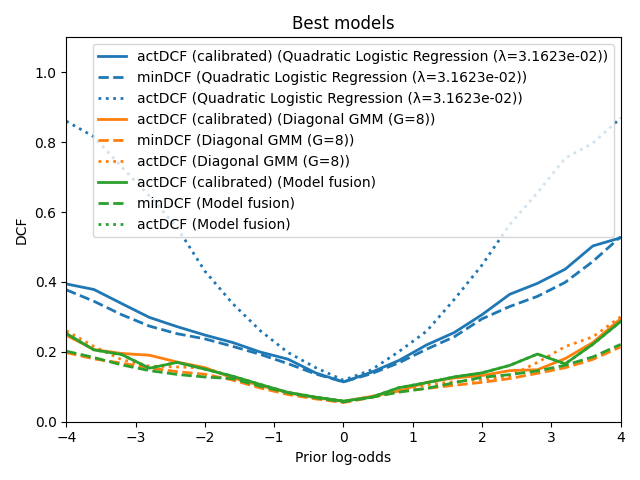
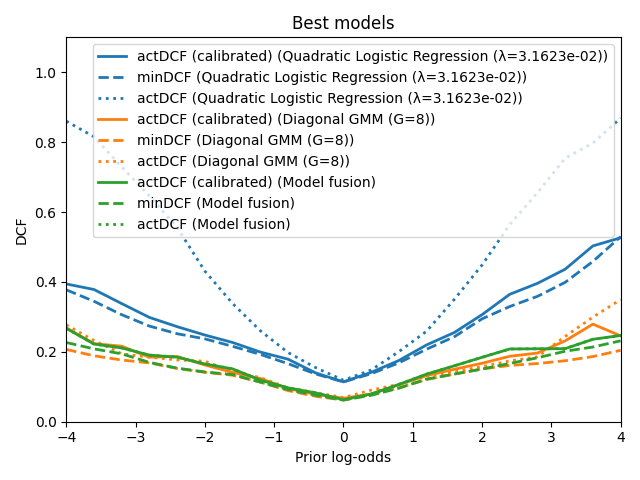
lab 11 part continued

Changed region(s): [[0.0938, 0.625, 0.9688, 0.8438]]

diff --git a/9_project.py b/9_project.py
@@ -1,13 +1,14 @@
 import numpy as np
-from libs.logistic_regression import LogisticRegression
+from libs.logistic_regression import LogisticRegression, quadratic_expansion, empirical_prior_logodds
 from libs.utils import load_data, split_2to1, row, col, print_table
 from libs.model_calibration import Kfold_split
-from libs.model_evaluation import bayes_pred_llr, confusion_matrix, DCF, DCF_min, plot_bayer_error
+from libs.model_evaluation import bayes_pred_llr, confusion_matrix, DCF, DCF_min
+from libs.model_evaluation import plot_bayer_error, prepare_bayes_plot_data
 
-best_scores_filenames = [
-    ('Quadratic Logistic Regression (λ=3.1623e-02)', 'results/logistic_regression/quadratic_logreg(λ=3.1623e-02)_llrs.npy'),
-    ('Diagonal GMM (G=8)', 'results/gmm/GMM(G=8)_diag_llrs.npy')
-]
+best_models_filenames = [
+    ('Quadratic Logistic Regression (λ=3.1623e-02)', 'logistic_regression/quadratic_logreg(λ=3.1623e-02)'),
+    ('Diagonal GMM (G=8)', 'gmm/GMM(G=8)_diag')
+] # to be transformed into a dict
 
 pi_true = 0.1
 K = 5
@@ -18,9 +19,10 @@ def main():
     model_scores_map = {}
     scores_all = []
     table_rows = []
+    models_cal = []
     # score calibration
-    for title, score_name in best_scores_filenames:
-        scores = row(np.load(score_name))
+    for title, model_name in best_models_filenames:
+        scores = row(np.load(f'results/{model_name}_llrs.npy'))
         scores_all.append(scores)
         model_cal = LogisticRegression(prior=pi_true)
         Kfold_scores, Kfold_labels = list(), list()
@@ -39,6 +41,7 @@ def main():
         minDCF = DCF_min(Kfold_scores, Kfold_labels, pi_true)
         table_rows.append((title, actDCF, minDCF))
         model_scores_map[title] = ((Kfold_scores, Kfold_labels), (scores, val_labels))
+        models_cal.append(model_cal)
     # score fusion
     scores_all = np.vstack(scores_all)
     Kfold_scores, Kfold_labels = list(), list()
@@ -84,6 +87,31 @@ def main():
         title='Best models',
     )
     print_table(table_rows, ['', 'actDCF', 'minDCF'])
+    
+    # Evaluation
+    eval_data, eval_labels = load_data('dataset/eval.txt')
+    #   load model parameters and hyperparameters
+    best_model_params = np.load(f'models/{best_models_filenames[0][1]}_params.npz')
+    best_model = LogisticRegression(lambda_reg=best_model_params['lambda_reg'].item())
+    best_model.params = best_model_params['weights'], best_model_params['bias'].item()
+    #   evualuate the model
+    scores = best_model(quadratic_expansion(eval_data)) - empirical_prior_logodds(eval_data, eval_labels)
+    predictions = bayes_pred_llr(scores, pi_true)
+    confmatrix = confusion_matrix(predictions, eval_labels)
+    actDCF = DCF(confmatrix, pi_true)
+    minDCF = DCF_min(scores, eval_labels, pi_true)
+    model_dcf_map, prior_logodds = prepare_bayes_plot_data(
+        { best_models_filenames[0][0]: scores }, 
+        eval_labels
+    )
+    plot_bayer_error(
+        model_dcf_map=model_dcf_map,
+        prior_logodds=prior_logodds,
+        title='Delivered model (Evaluation data)',
+        savepath='plots/delivered_model_bayes_error'
+    )
+
+    
 
 
 

diff --git a/6_project.py b/6_project.py
@@ -59,7 +59,7 @@ def main():
             if i == 0:
                 np.save(f'results/logistic_regression/logreg(λ={lambda_reg:.4e})_llrs', llr_scores)
                 np.savez(f'models/logistic_regression/logreg(λ={lambda_reg:.4e})_params', 
-                            weights=model.params[0], bias=model.params[1])
+                            weights=model.params[0], bias=model.params[1], lambda_reg=lambda_reg)
         plot_logreg_dcfs(reg_values, dcfs, 'Logistic Regression', 
                             f'plots/logreg_λ_DCFs_{to_snake_case(title)}')
         print_table(table_rows, ['λ', 'actDCF', 'minDCF', 'Calibration loss'], 
@@ -90,7 +90,7 @@ def main():
         # save model parameters and scores
         np.save(f'results/logistic_regression/prior_weighted_logreg(λ={lambda_reg:.4e})_llrs', llr_scores)
         np.savez(f'models/logistic_regression/prior_weighted_logreg(λ={lambda_reg:.4e})_params', 
-                    weights=model.params[0], bias=model.params[1])
+                    weights=model.params[0], bias=model.params[1], lambda_reg=lambda_reg)
     plot_logreg_dcfs(reg_values, dcfs, f'Logistic Regression (π={pi_true})', 
                         f'plots/prior_weighted_logreg_λ_DCFs_{to_snake_case('Full dataset')}')
     print_table(table_rows, ['λ', 'actDCF', 'minDCF', 'Calibration loss'], 
@@ -120,7 +120,7 @@ def main():
         ))
         np.save(f'results/logistic_regression/quadratic_logreg(λ={lambda_reg:.4e})_llrs', llr_scores)
         np.savez(f'models/logistic_regression/quadratic_logreg(λ={lambda_reg:.4e})_params', 
-                    weights=model.params[0], bias=model.params[1])
+                    weights=model.params[0], bias=model.params[1], lambda_reg=lambda_reg)
     plot_logreg_dcfs(reg_values, dcfs, 'Quadratic Logistic Regression', 
                         f'plots/quad_logreg_λ_DCFs_{to_snake_case('Full dataset')}')
     print_table(table_rows, ['λ', 'actDCF', 'minDCF', 'Calibration loss'], 

diff --git a/7_project.py b/7_project.py
@@ -77,7 +77,7 @@ def main():
             # saving model parameters and scores
             np.save(f'results/svm/svm(C={C:.4e},K={K})_{to_snake_case(title)}_scores', scores)
             np.savez(f'models/svm/svm_(C={C:.4e},K={K})_{to_snake_case(title)}_params', 
-                        weights=model.params[0], bias=model.params[1])
+                        weights=model.params[0], bias=model.params[1], C=C, K=K)
         print_table(table_rows, ['C, K', 'actDCF', 'minDCF', 'Calibration loss'], 
                     title=f'SVM {title}', filepath=filepath)
         plot_svm_dcfs(C_values, dcfs, f'SVM (K={K}), {title}', f'plots/svm_{to_snake_case(title)}_C_DCFs_plot')
@@ -111,7 +111,7 @@ def main():
             # saving the model and scores
             np.save(f'results/svm/svm(C={C:.4e},K={K})_poly(d={d},c={c})_scores', scores)
             np.savez(f'models/svm/svm_(C={C:.4e},K={K})_poly(d={d},c={c})_params', 
-                        weights=model.params[0], bias=model.params[1])
+                        weights=model.params[0], bias=model.params[1], C=C, K=K, d=d, c=c)
         plot_dict[f'Poly(d={d:.3f}, c={c:.3f})'] = dcfs
     print_table(table_rows, ['C, K', 'd, c', 'actDCF', 'minDCF', 'Calibration loss'], 
                     title=f'SVM Poly kernel', filepath=filepath)
@@ -144,7 +144,7 @@ def main():
             # save model parameters and scores
             np.save(f'results/svm/svm(C={C:.4e},K={K})_RBF(γ={g:.4e})_scores', scores)
             np.savez(f'models/svm/svm(C={C:.4e},K={K})_RBF(γ={g:.4e})_params', 
-                    weights=model.params[0], bias=model.params[1])
+                    weights=model.params[0], bias=model.params[1], C=C, K=K, g=g)
         plot_dict[f'RBF(γ={g:.3f})'] = dcfs
     print_table(table_rows, ['C, K', 'γ', 'actDCF', 'minDCF', 'Calibration loss'], 
                     title=f'SVM RBF kernel', filepath=filepath)

diff --git a/libs/model_evaluation.py b/libs/model_evaluation.py
@@ -140,6 +140,22 @@ def plot_bayer_error(prior_logodds, model_dcf_map: dict[str, dict[str, list[floa
     else:
         plt.savefig(savepath)
 
+def prepare_bayes_plot_data(model_scores_map: dict, labels: list):
+    effprior_logodds = np.linspace(-4, 4, 21)
+    effpriors = 1 / (1 + np.exp(-effprior_logodds))
+    model_dcf_map = {}
+    for model_name, scores in model_scores_map.items():
+        actDCFs, minDCFs = list(), list()
+        for prior_eff in effpriors:
+            predictions = bayes_pred_llr(scores, prior_eff)
+            M = confusion_matrix(predictions, labels)
+            dcf_score = DCF(M, prior_eff)
+            actDCFs.append(dcf_score)
+            mindcf_score = DCF_min(scores, labels, prior_eff)
+            minDCFs.append(mindcf_score)
+        model_dcf_map[model_name] = {'actDCF': actDCFs, 'minDCF': minDCFs}
+    return model_dcf_map, effprior_logodds
+
 def bayes_pred_post(P: np.ndarray, C: np.ndarray):
     Bscores = C @ P
     preds = np.argmin(Bscores, 0)
